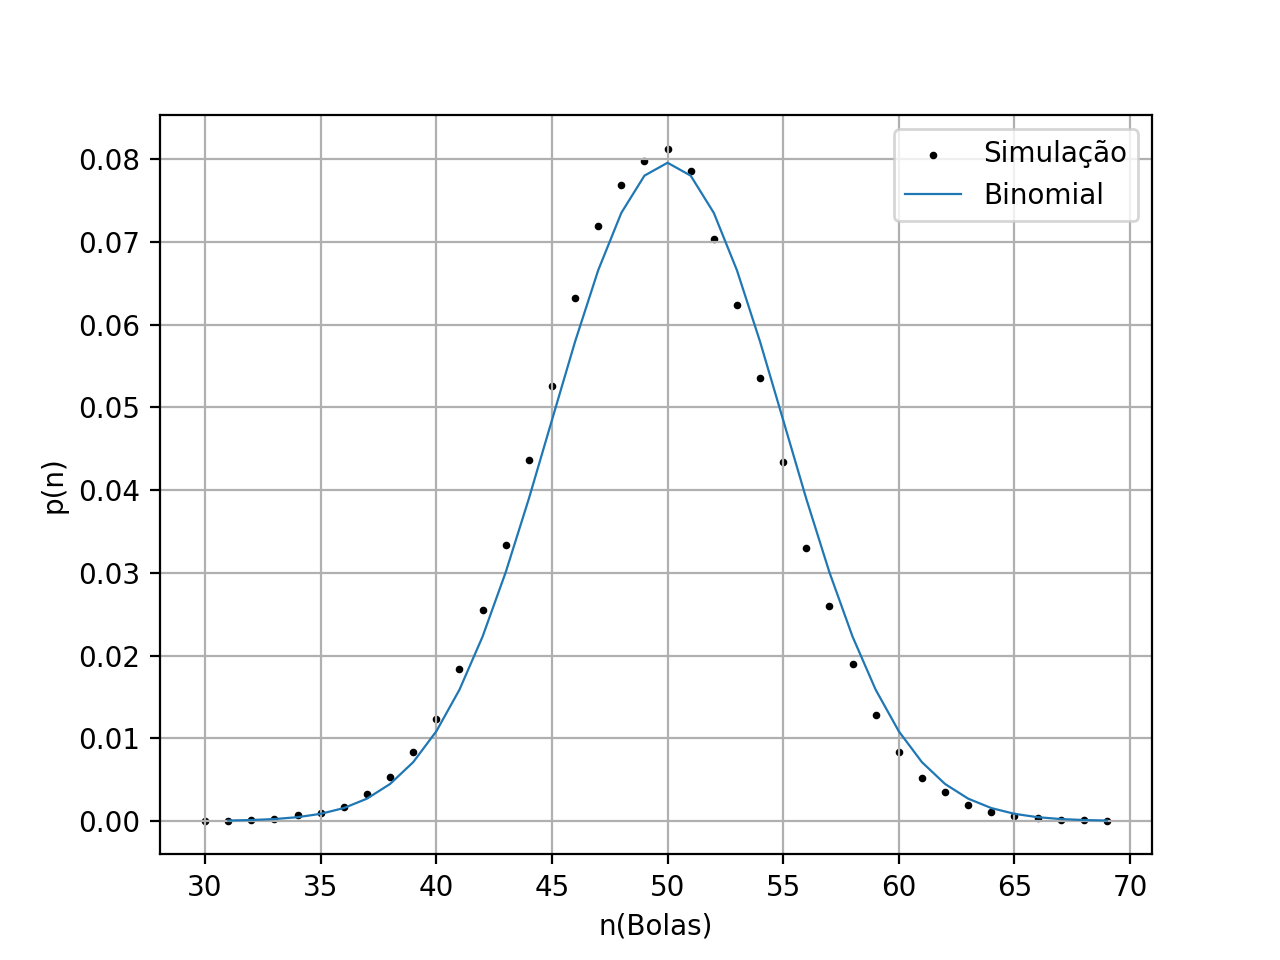
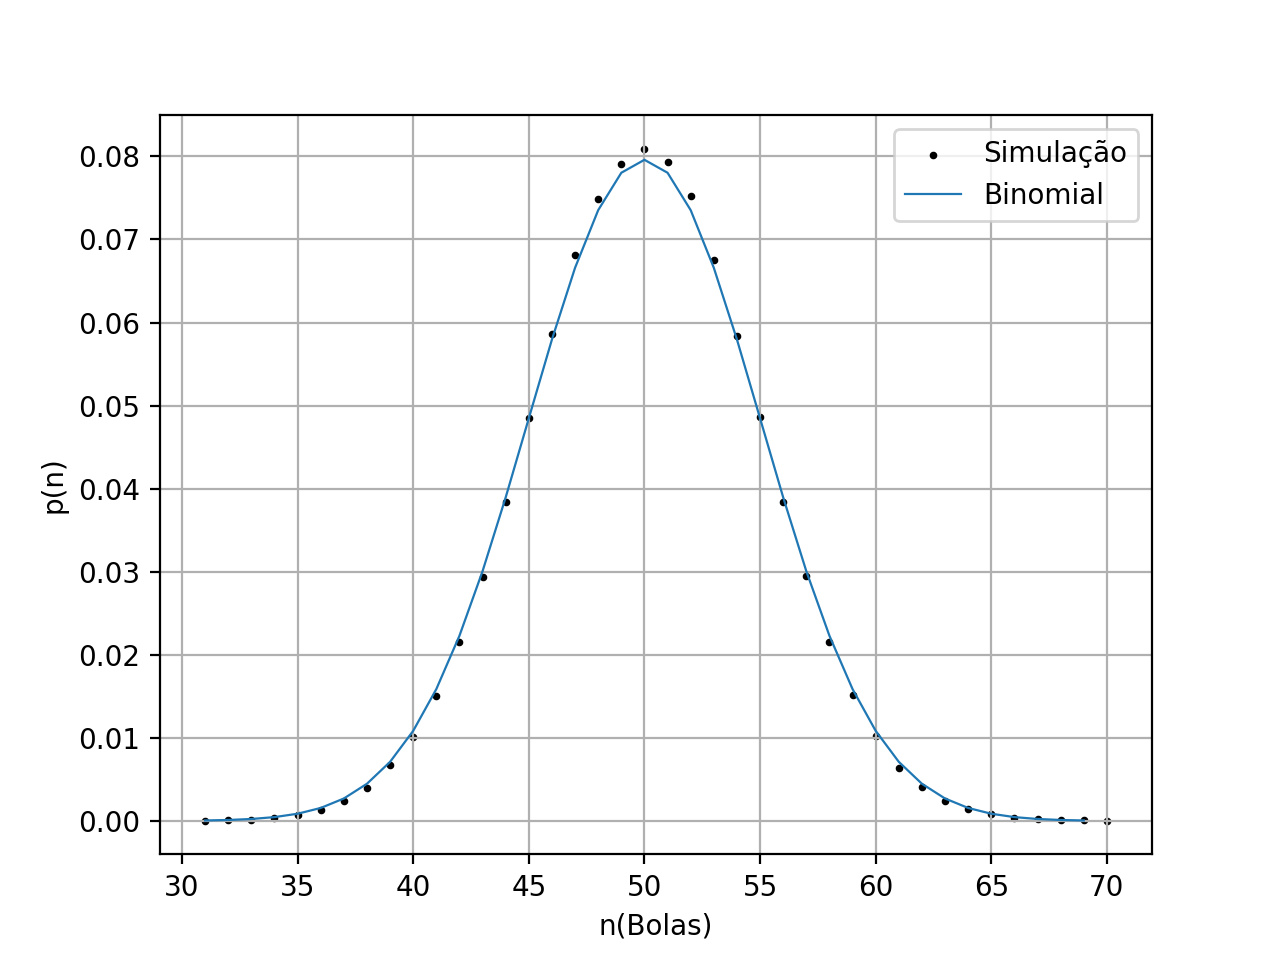
Atualização

diff --git a/Atividades-aula/ex-3/mc_3.c b/Atividades-aula/ex-3/mc_3.c
@@ -4,7 +4,7 @@
 #include <math.h>
 
 #define N 100		// Número total de bolas
-#define TF 10000000	// Tempo final
+#define TF 50000000	// Tempo final
 #define EE 10000	// Estado Estacionário
 #define TC 101		// Tempo de correlação
 
@@ -13,24 +13,22 @@ int main(){
     double funcao(int t, int na, int n);
     int seed = time(NULL);
     srand(seed);
-    
-    // Variaveis para simulação
-	int urnaA = N;
-	int rand;
-	int t = 0;
 	
     // Criação do arquivo
     char titulo1[20], titulo2[20];
     sprintf(titulo1, "%i-N%i.txt", seed, N);
 	FILE *saida = fopen(titulo1, "w");
     
-    // Variaveis para a probabilidade
+    // Variaveis para simulação
+	int urnaA = N;
+	int rand;
+	int t = 0;
     float probs[N] = {0.};
     int cont = 0;
 	
 	// Dinâmica até sair do transiente
 	for(t; t < EE; t++){
-		rand = (int) uniform(0, N-1);
+		rand = (int) uniform(1, N);
 		if(rand < urnaA) urnaA--;
         else urnaA++;
 	}
@@ -38,21 +36,23 @@ int main(){
 	// Coletando do Estado estacionário
 	for(t; t < TF; t++){
 		// Faz a dinâmica
-		rand = (int) uniform(0, N-1);
+		rand = (int) uniform(0, N-2);
 		if(rand < urnaA) urnaA--;
         else urnaA++;
 	    
 	    // Coleta os dados
 	    if(t%TC == 0){
-	        probs[urnaA] += 1.;
-	    	cont++;
-	    }
+        	probs[urnaA] += 1.;
+    		cont++;
+    	}
 	}
-
+	
+	printf("Amostras = %d\n", cont);
+	
 	// Escreve o arquivo de saída
     for(int i = 0; i < N; i++){
    	    probs[i] /= (float) cont;
-    	fprintf(saida, "%i\t%lf\n", i, probs[i]);
+    	fprintf(saida, "%i\t%lf\n", i+1, probs[i]);
     }
 	
 	// Roda o script de python
@@ -66,6 +66,7 @@ int main(){
 double uniform(double min, double max) {
 	/*
 	Função que gera um número aleatório em uma distribuição uniforme
+	Para int: [min, max)
 	*/
 	double random  = ((double) rand()) / RAND_MAX;
 	double range = (max - min) * random;
